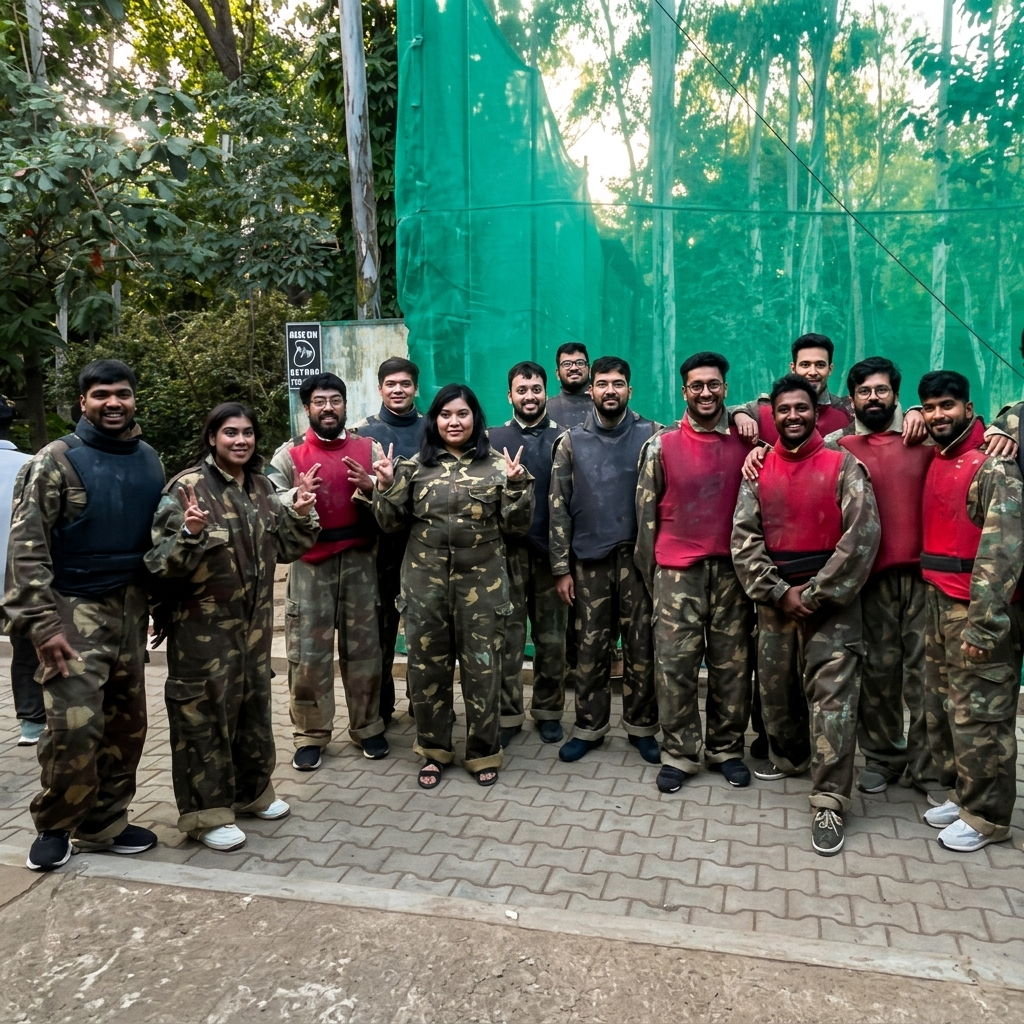
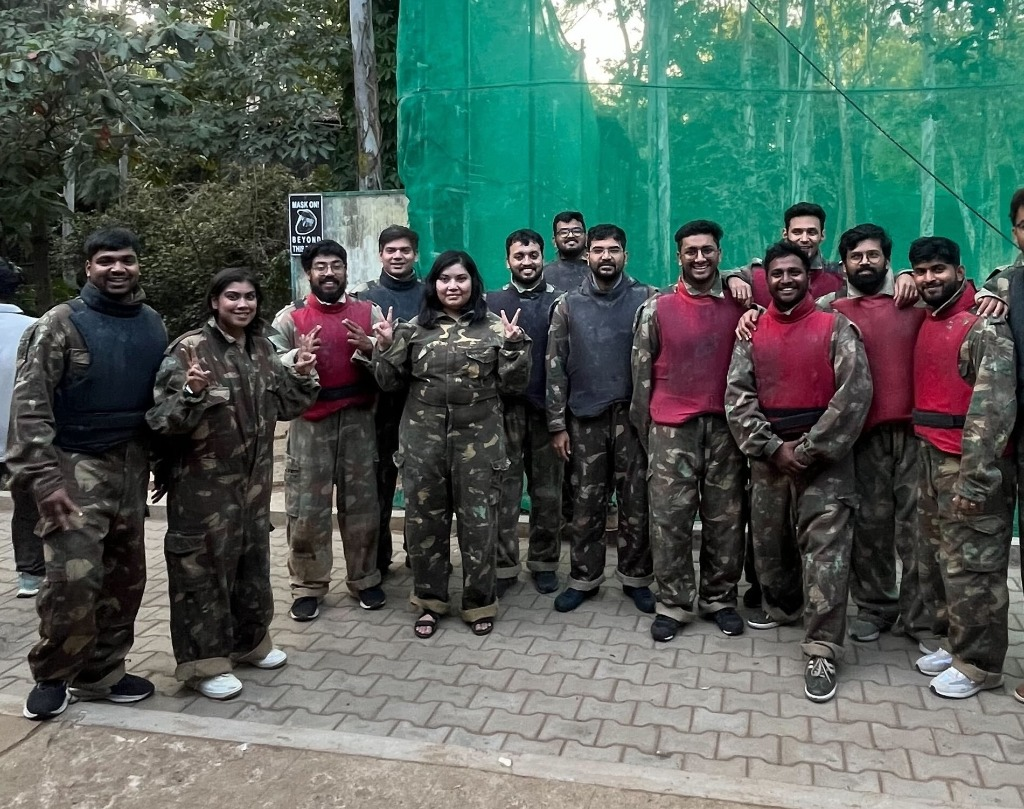
fix(metadata): update page title to 'Pankaj Gupta | Product x AI', remove Onalunchbreak, and update CEGIS image asset

diff --git a/src/app/layout.tsx b/src/app/layout.tsx
@@ -42,25 +42,24 @@ const caveat = Caveat({
 });
 
 export const metadata: Metadata = {
-  title: "Pankaj Gupta — Mr. Onalunchbreak // Product × AI × Systems",
+  title: "Pankaj Gupta | Product x AI",
   description:
-    "Pankaj Gupta AKA Mr. Onalunchbreak — DTU '23, Delhi. Product Manager, Applied AI builder, researcher. Product by day, side projects by lunch, overthinking by midnight.",
+    "Pankaj Gupta — DTU '23, Delhi. Product Manager, Applied AI builder, researcher.",
   keywords: [
     "Pankaj Gupta",
-    "Mr. Onalunchbreak",
     "Product Manager",
     "Applied AI",
     "Researcher",
     "DTU",
     "Delhi",
     "Portfolio",
-    "Product × AI × Systems",
+    "Product x AI",
   ],
   authors: [{ name: "Pankaj Gupta" }],
   openGraph: {
-    title: "Pankaj Gupta — Mr. Onalunchbreak // Product × AI × Systems",
+    title: "Pankaj Gupta | Product x AI",
     description:
-      "Product by day, side projects by lunch, overthinking by midnight. DTU '23 · Delhi, India.",
+      "Product Manager & Applied AI Builder. DTU '23 · Delhi, India.",
     type: "website",
   },
 };
